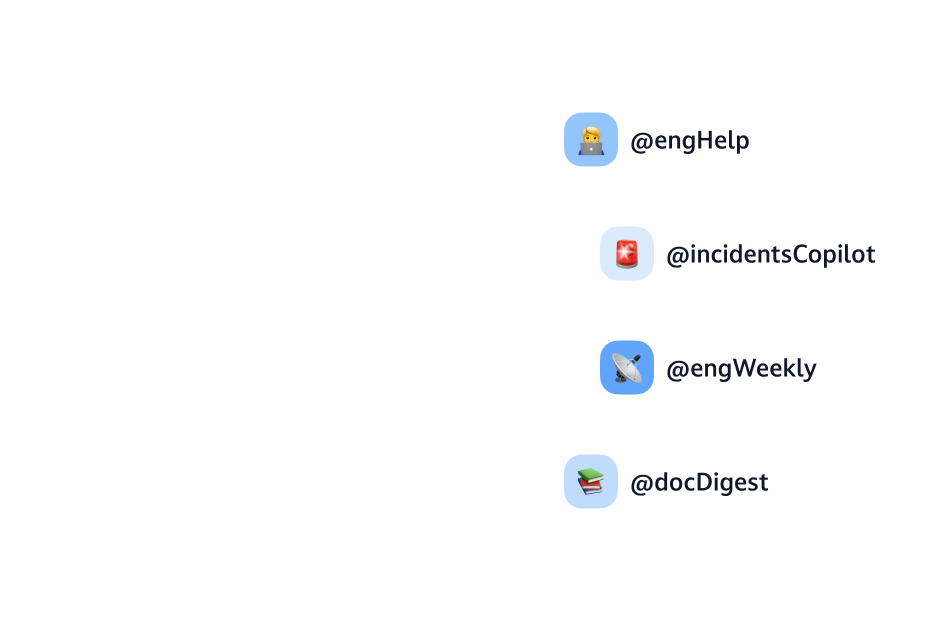
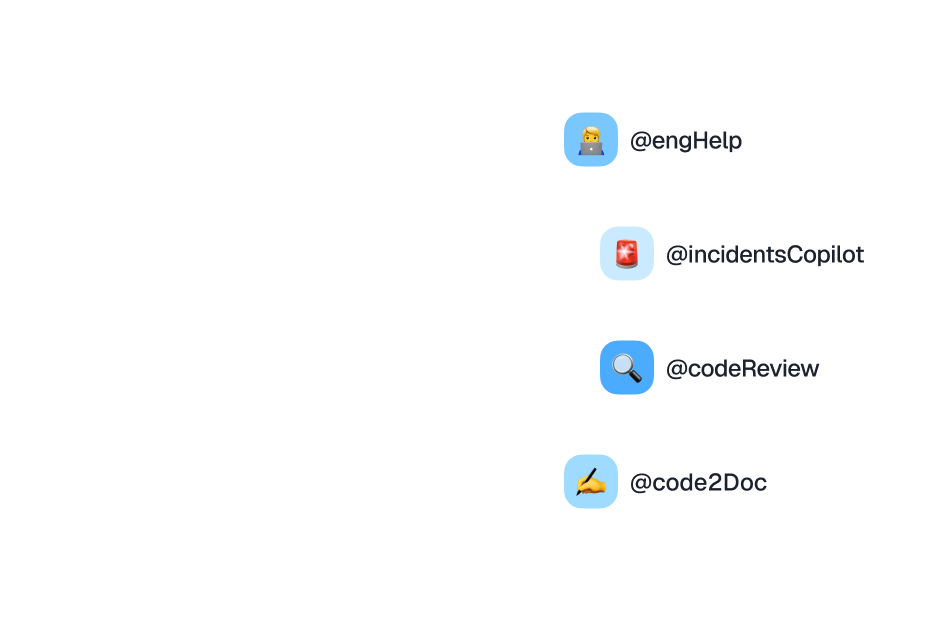
updating website content

diff --git a/front/components/home/FunctionsSection.tsx b/front/components/home/FunctionsSection.tsx
@@ -16,19 +16,19 @@ interface FunctionCardData {
 function FunctionsSection() {
   const cards: FunctionCardData[] = [
     {
-      title: "RevOps & Sales",
+      title: "Sales",
       color: "green",
       features: [
-        "Create customer profiles from CRM, notes, and emails",
-        "Flag at-risk deals and identify failure trends",
-        "Analyze calls to improve pitches and understand blockers",
-        "Generate SQL from natural language for real-time metrics",
+        "Create account snapshots from past interactions and CRM data",
+        "Generate targeted outreach using call transcripts and insights",
+        "Answer prospect questions and RFPs with product and competitor insights",
+        "Analyze calls to improve pitch delivery and objection handling",
       ],
       visualSrc: "/static/landing/functions/sales.png",
       href: "/home/solutions/sales",
     },
     {
-      title: "PMM & Marketing",
+      title: "Marketing",
       color: "rose",
       features: [
         "Write on-brand content in minutes",
@@ -46,31 +46,19 @@ function FunctionsSection() {
         "Connect agents to knowledge base for instant responses",
         "Identify product improvements from ticket patterns",
         "Auto-create FAQs from resolved tickets",
-        "Provide real-time guidance based on best practices",
+        "Auto-route tickets based on queries and expertise",
       ],
       visualSrc: "/static/landing/functions/customersupport.png",
       href: "/home/solutions/customer-support",
     },
     {
-      title: "Product & Design",
-      color: "golden",
-      features: [
-        "Improve product copy per company guidelines",
-        "Analyze customer sentiment across platforms",
-        "Extract competitor insights automatically",
-        "Generate and refine user stories",
-      ],
-      visualSrc: "/static/landing/functions/product_and_design.png",
-      href: "/home/solutions/product",
-    },
-    {
       title: "Engineering",
       color: "green",
       features: [
-        "Review code against internal standards",
-        "Auto-create docs from code and comments",
-        "Compile incident timelines and draft postmortems",
-        "Generate SQL from natural language",
+        "Accelerate debugging using code context, docs, and issue history in your IDE",
+        "Streamline incidents with automated runbooks, communication, and documentation",
+        "Auto-review code to ensure standards and security compliance at scale",
+        "Auto-generate and update documentation from code changes",
       ],
       visualSrc: "/static/landing/functions/engineering.png",
       href: "/home/solutions/engineering",

diff --git a/front/pages/home/solutions/dust-platform.tsx b/front/pages/home/solutions/dust-platform.tsx
@@ -39,10 +39,39 @@ export default function DustPlatform() {
         <div
           className={classNames(
             "col-span-12 grid grid-cols-1 gap-8",
-            "md:grid-cols-2"
-            // "lg:col-span-10 lg:col-start-1"
+            "md:grid-cols-3"
           )}
         >
+          <ImgBlock
+            title={<>MCP: Integrate custom tools into Dust agents</>}
+            content={[
+              <>
+                Seamlessly connect your own and external tools to Dust agents
+                using MCP servers. Customize agent capabilities, manage
+                authentication, and control access—all through a flexible
+                integration framework.
+              </>,
+            ]}
+          >
+            <Hover3D
+              depth={-20}
+              perspective={1000}
+              className={classNames("relative")}
+            >
+              <Div3D depth={-20}>
+                <img src="/static/landing/api/MCP1.png" />
+              </Div3D>
+              <Div3D depth={40} className="absolute top-0">
+                <img src="/static/landing/api/MCP2.png" />
+              </Div3D>
+              <Div3D depth={0} className="absolute top-0">
+                <img src="/static/landing/api/MCP3.png" />
+              </Div3D>
+              <Div3D depth={40} className="absolute top-0">
+                <img src="/static/landing/api/MCP4.png" />
+              </Div3D>
+            </Hover3D>
+          </ImgBlock>
           <ImgBlock
             title={<>Dust Apps: Expand your agents' capabilities</>}
             content={[

diff --git a/front/components/home/content/Solutions/configs/engineeringConfig.tsx b/front/components/home/content/Solutions/configs/engineeringConfig.tsx
@@ -124,9 +124,9 @@ export const UseCases: UseCaseProps = {
     "Customize and automate tasks without writing a single line of code.",
   items: [
     {
-      title: "Debugging",
+      title: "Code debugging",
       content:
-        "Fix code errors by retrieving internal documentation, updates, and Slack discussions. Stay focused on your core work.",
+        "Streamline debugging within your IDE by surfacing relevant code context, documentation, and recent issues.",
       images: ["/static/landing/engineering/debuggingAgent.png"],
     },
     {
@@ -136,16 +136,16 @@ export const UseCases: UseCaseProps = {
       images: ["/static/landing/engineering/incidentHandling.png"],
     },
     {
-      title: "Team updates",
+      title: "Code review",
       content:
-        "Generate concise summaries of code changes, incidents, and technical discussions to keep everyone aligned.",
-      images: ["/static/landing/engineering/teamUpdates.png"],
+        "Automate code reviews to maintain engineering standards and security at scale.",
+      images: ["/static/landing/engineering/autoreview.png"],
     },
     {
-      title: "External doc parser",
+      title: "Code to doc",
       content:
-        "Chat with any technical documentation to quickly find answers and follow step-by-step guidance.",
-      images: ["/static/landing/engineering/docParser.png"],
+        "Generate and maintain technical and external-facing documentation automatically from code changes.",
+      images: ["/static/landing/engineering/teamUpdates.png"],
     },
   ],
 };

diff --git a/front/components/home/content/Solutions/configs/supportConfig.tsx b/front/components/home/content/Solutions/configs/supportConfig.tsx
@@ -119,9 +119,9 @@ export const UseCases: UseCaseProps = {
     "Create custom AI agents without writing a single line of code.",
   items: [
     {
-      title: "Ticket deflection",
+      title: "Ticket routing",
       content:
-        "Integrate AI agents in your product interface to deflect Tier 1 tickets and reduce support workload.",
+        "Automatically classify and route support tickets based on query history and team domain expertise.",
       images: ["/static/landing/support/ticketDeflection.png"],
     },
     {
